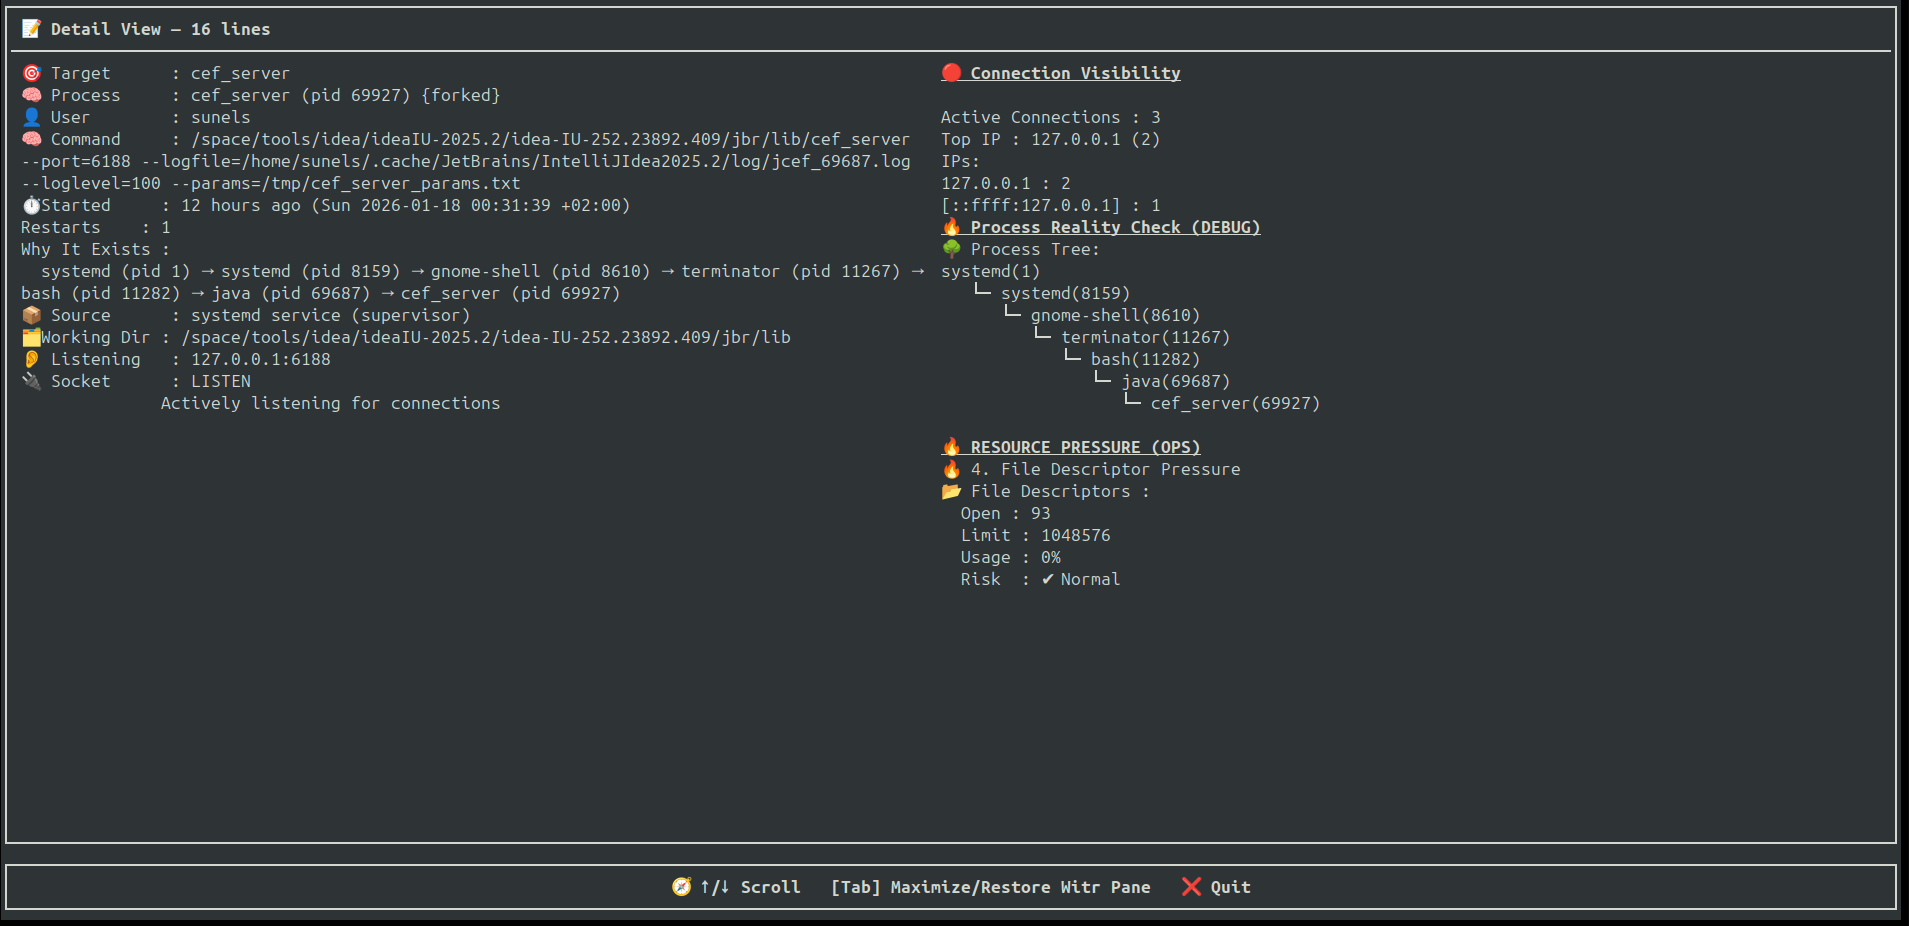
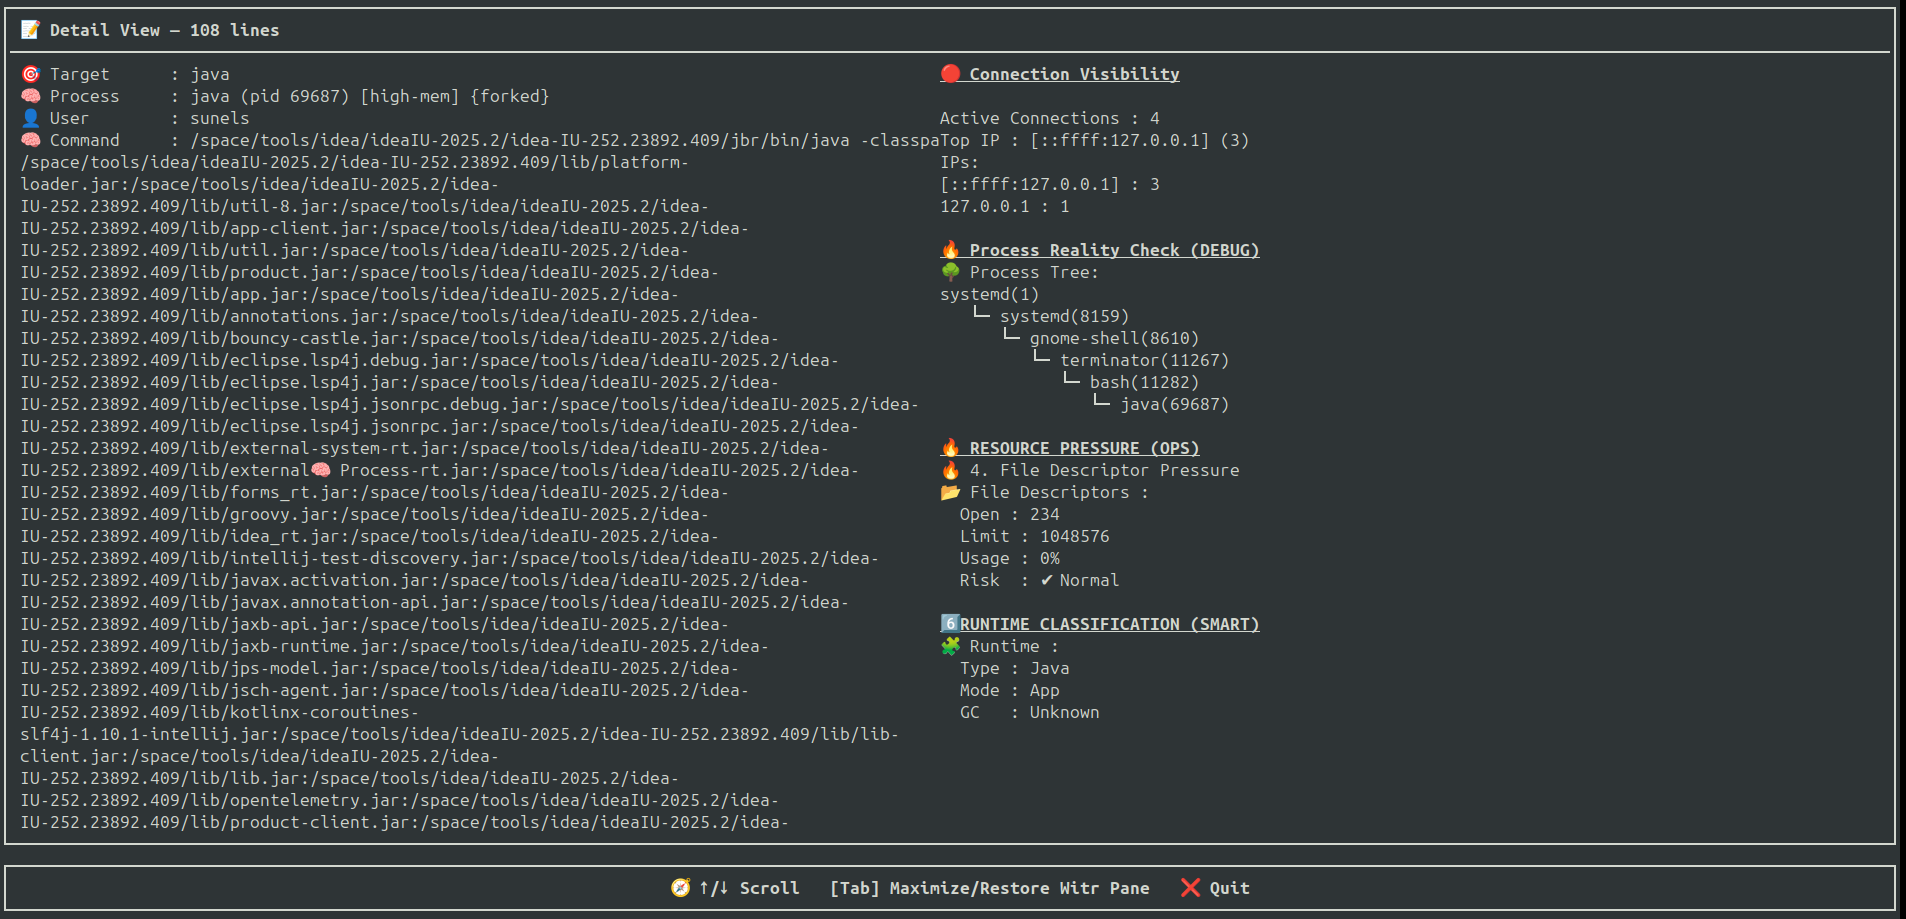
-  RUNTIME CLASSIFICATION (SMART) feature is added Python / Java / GO langs etc - Screenshot updated

Changed region(s): [[0.0, 0.0, 1.0, 1.0], [0.4953, 0.6703, 0.6501, 0.7922]]

diff --git a/portwitr_interactive.py b/portwitr_interactive.py
@@ -491,6 +491,7 @@ def draw_detail(win, lines, scroll=0, conn_info=None):
             safe_add(row_y, conn_panel_x, f"{ip} : {cnt}")
             row_y += 1
 
+        row_y += 1
         # 🔥 PROCESS REALITY CHECK
         if row_y < h - 1:
             safe_add(row_y, conn_panel_x, "🔥 Process Reality Check (DEBUG)", curses.A_BOLD | curses.A_UNDERLINE)
@@ -527,6 +528,20 @@ def draw_detail(win, lines, scroll=0, conn_info=None):
                 row_y += 1
             if row_y < h - 1:
                 safe_add(row_y, conn_panel_x, f"  Risk  : {fd_info['risk']}")
+                row_y += 1
+            row_y += 1
+            # 🔹 RUNTIME CLASSIFICATION (SMART)
+            if pid and pid.isdigit() and row_y < h - 1:
+                runtime = detect_runtime_type(pid)
+                safe_add(row_y, conn_panel_x, "6⃣ RUNTIME CLASSIFICATION (SMART)", curses.A_BOLD | curses.A_UNDERLINE)
+                row_y += 1
+                safe_add(row_y, conn_panel_x, f"🧩 Runtime :")
+                row_y += 1
+                safe_add(row_y, conn_panel_x, f"  Type : {runtime['type']}")
+                row_y += 1
+                safe_add(row_y, conn_panel_x, f"  Mode : {runtime['mode']}")
+                row_y += 1
+                safe_add(row_y, conn_panel_x, f"  GC   : {runtime['gc']}")
                 row_y += 1
         else:
             safe_add(row_y, conn_panel_x, "<no pid>")
@@ -787,6 +802,66 @@ def get_fd_pressure(pid):
         "risk": risk
     })
     return fd_info
+
+def detect_runtime_type(pid):
+    """
+    Detect runtime environment from PID.
+    Returns dict:
+    {
+        "type": "-",
+        "mode": "-",
+        "gc": "-"
+    }
+    """
+    runtime = {"type": "-", "mode": "-", "gc": "-"}
+    if not pid or not pid.isdigit():
+        return runtime
+    try:
+        # cmdline
+        with open(f"/proc/{pid}/cmdline", "r") as f:
+            cmdline = f.read().replace("\0", " ").lower()
+
+        # environ
+        env = {}
+        try:
+            with open(f"/proc/{pid}/environ", "r") as f:
+                for e in f.read().split("\0"):
+                    if "=" in e:
+                        k,v = e.split("=",1)
+                        env[k] = v
+        except Exception:
+            pass
+
+        # Java detection
+        if "java" in cmdline:
+            runtime["type"] = "Java"
+            if "spring-boot" in cmdline or "springboot" in cmdline:
+                runtime["mode"] = "Spring Boot Server"
+            else:
+                runtime["mode"] = "Server" if "-jar" in cmdline else "App"
+            # detect GC type from JAVA_OPTS or cmdline
+            gc_match = re.search(r"-XX:\+Use([A-Za-z0-9]+)GC", cmdline)
+            if not gc_match:
+                gc_match = re.search(r"GC=([A-Za-z0-9]+)", " ".join(env.get("JAVA_OPTS","").split()))
+            runtime["gc"] = gc_match.group(1) if gc_match else "Unknown"
+        elif "node" in cmdline or "nodejs" in cmdline:
+            runtime["type"] = "Node"
+            runtime["mode"] = "Server"
+        elif "python" in cmdline:
+            runtime["type"] = "Python"
+            runtime["mode"] = "Script"
+        elif "nginx" in cmdline:
+            runtime["type"] = "Nginx"
+            runtime["mode"] = "Server"
+        elif "postgres" in cmdline or "postmaster" in cmdline:
+            runtime["type"] = "Postgres"
+            runtime["mode"] = "DB Server"
+        elif "go" in cmdline:
+            runtime["type"] = "Go"
+            runtime["mode"] = "Server"
+    except Exception:
+        pass
+    return runtime
 
 if __name__ == "__main__":
     check_python_version()
